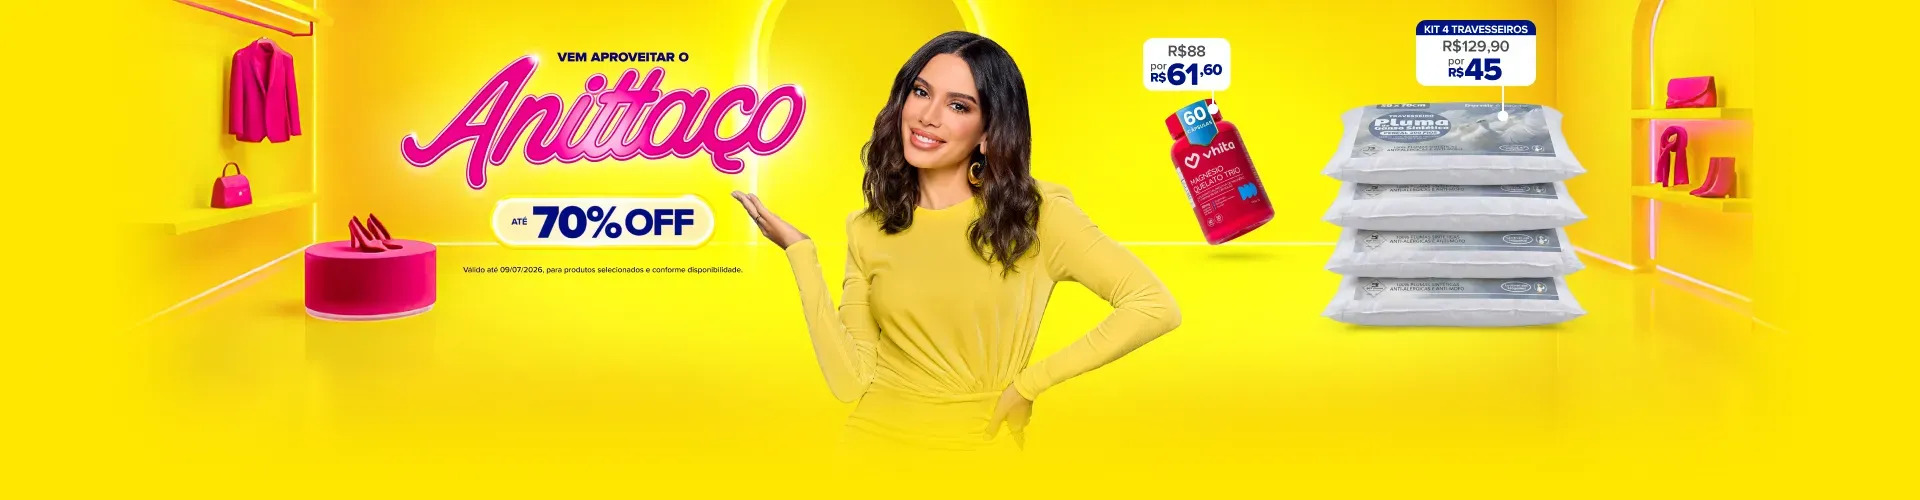
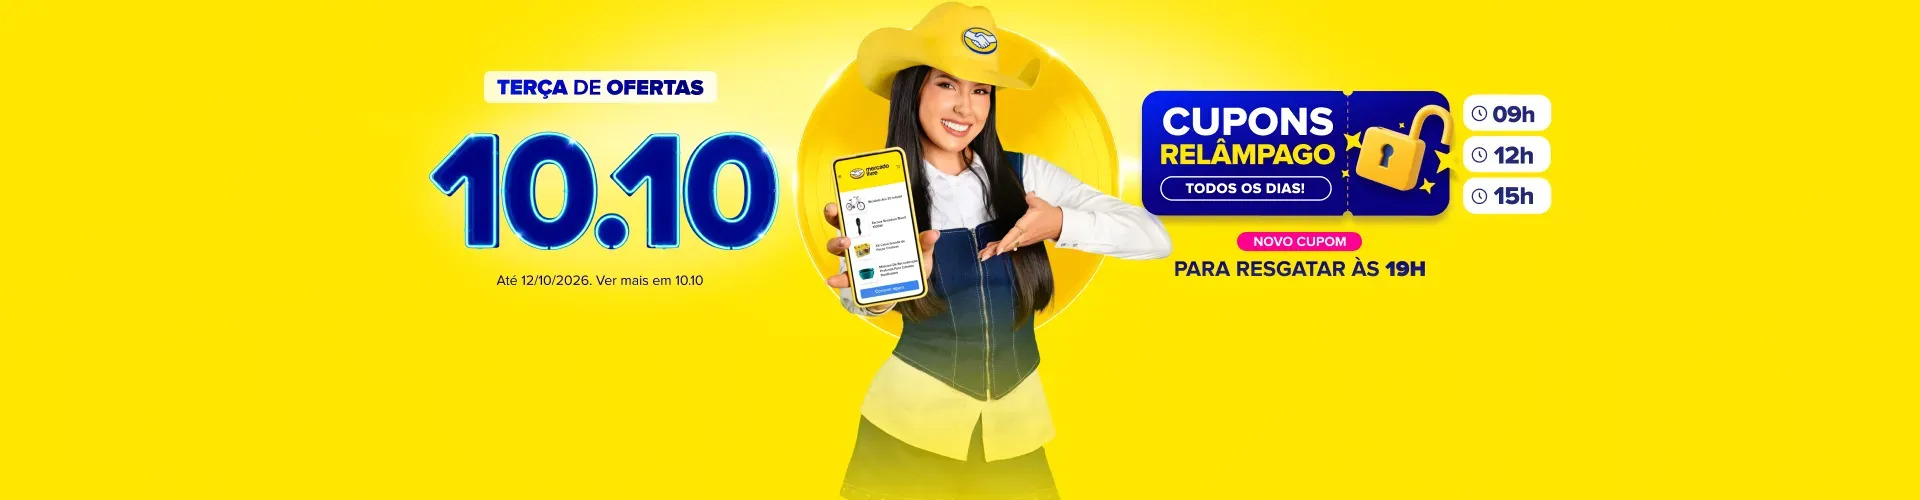
Add files via upload

diff --git a/index.html b/index.html
@@ -556,6 +556,22 @@
         min-height: 176px;
       }
     }
+
+
+    /* ===== Home Tech 2.0 ===== */
+    .hero-actions{display:flex;gap:10px;flex-wrap:wrap;margin-top:18px}.hero-btn{display:inline-flex;align-items:center;justify-content:center;min-height:44px;padding:10px 16px;border-radius:8px;text-decoration:none;font-weight:800;background:#fff;color:#123}.hero-btn.secondary{background:rgba(255,255,255,.16);color:#fff;border:1px solid rgba(255,255,255,.4);backdrop-filter:blur(8px)}
+    .quick-wrap,.featured-wrap,.coupon-wrap{max-width:1200px;margin:18px auto 0;padding:0 18px}.section-head{display:flex;justify-content:space-between;align-items:end;gap:12px;margin-bottom:10px}.section-head h2{font-size:1.25rem}.section-head p{color:var(--muted);font-size:.9rem}
+    .quick-cats{display:flex;gap:8px;overflow-x:auto;scrollbar-width:none;padding-bottom:2px}.quick-cats::-webkit-scrollbar{display:none}.cat-chip{flex:0 0 auto;border:1px solid var(--line);background:var(--surface);color:var(--text);border-radius:999px;padding:10px 14px;font-weight:800;cursor:pointer}.cat-chip.active,.cat-chip:hover{background:var(--brand);border-color:var(--brand);color:#fff}
+    .featured{display:grid;grid-auto-flow:column;grid-auto-columns:minmax(245px,300px);gap:12px;overflow-x:auto;scroll-snap-type:x mandatory;padding:2px 2px 8px}.featured .card{scroll-snap-align:start}
+    .coupon-box{display:flex;align-items:center;justify-content:space-between;gap:16px;padding:18px;border:1px solid var(--line);border-radius:10px;background:linear-gradient(135deg,var(--surface),var(--surface-strong));box-shadow:0 10px 24px rgba(23,32,51,.06)}.coupon-box h2{font-size:1.15rem;margin-bottom:4px}.coupon-box p{color:var(--muted)}
+    .toolbar{max-width:1200px;margin:12px auto 0;padding:0 18px;display:flex;justify-content:space-between;align-items:center;gap:12px}.sort-select{min-height:42px;border:1px solid var(--line);border-radius:8px;background:var(--surface);color:var(--text);padding:0 12px;font-weight:700}
+    .card{position:relative}.badge{position:absolute;top:10px;left:10px;z-index:2;padding:6px 9px;border-radius:999px;background:#00a650;color:#fff;font-size:.75rem;font-weight:900;box-shadow:0 5px 14px rgba(0,0,0,.16)}.fav-btn{position:absolute;top:9px;right:9px;z-index:2;width:36px;height:36px;border:1px solid var(--line);border-radius:50%;background:rgba(255,255,255,.94);cursor:pointer;font-size:1rem}.fav-btn.active{color:#e11d48}
+    .price-box{margin-top:2px}.old-price{color:var(--muted);font-size:.82rem;text-decoration:line-through;min-height:1em}.current-price{font-size:1.35rem;font-weight:900;color:var(--text)}.installments{font-size:.82rem!important;color:#00a650!important;font-weight:800}.card-actions{display:grid;grid-template-columns:1fr 44px;gap:8px;margin-top:auto}.card-actions .btn{margin-top:0}.share-btn{border:1px solid var(--line);border-radius:8px;background:var(--surface-strong);color:var(--text);cursor:pointer;font-size:1rem}
+    .admin-fab{position:fixed;left:18px;bottom:18px;z-index:901;border:0;border-radius:999px;background:#172033;color:#fff;min-height:46px;padding:0 16px;font-weight:900;cursor:pointer;box-shadow:var(--shadow)}body.dark .admin-fab{background:#f4f7fb;color:#172033}
+    .modal-backdrop{position:fixed;inset:0;z-index:2000;background:rgba(5,10,20,.62);display:none;align-items:center;justify-content:center;padding:16px}.modal-backdrop.open{display:flex}.admin-modal{width:min(760px,100%);max-height:92vh;overflow:auto;background:var(--surface);border:1px solid var(--line);border-radius:14px;box-shadow:0 30px 80px rgba(0,0,0,.35)}.modal-head{position:sticky;top:0;background:var(--surface);display:flex;align-items:center;justify-content:space-between;padding:16px;border-bottom:1px solid var(--line);z-index:2}.modal-head button{width:38px;height:38px;border:1px solid var(--line);border-radius:8px;background:var(--bg);color:var(--text);cursor:pointer}.admin-body{padding:16px}.admin-grid{display:grid;grid-template-columns:1fr 1fr;gap:10px}.admin-grid .full{grid-column:1/-1}.admin-grid input,.admin-grid select,.admin-grid textarea{width:100%;min-height:44px;padding:10px 12px;border:1px solid var(--line);border-radius:8px;background:var(--bg);color:var(--text);font:inherit}.admin-grid textarea{min-height:80px;resize:vertical}.admin-actions{display:flex;gap:8px;flex-wrap:wrap;margin-top:12px}.admin-actions button{min-height:42px;border:0;border-radius:8px;padding:0 14px;font-weight:900;cursor:pointer}.save-product{background:var(--brand);color:#fff}.cancel-edit{background:var(--surface-strong);color:var(--text)}.admin-list{margin-top:18px;border-top:1px solid var(--line);padding-top:14px}.admin-item{display:flex;align-items:center;justify-content:space-between;gap:10px;padding:10px 0;border-bottom:1px solid var(--line)}.admin-item span{min-width:0;overflow:hidden;text-overflow:ellipsis;white-space:nowrap}.admin-item-actions{display:flex;gap:6px}.admin-item button{border:1px solid var(--line);background:var(--bg);color:var(--text);border-radius:7px;padding:7px 9px;cursor:pointer}.danger{color:#dc2626!important}
+    .toast{position:fixed;left:50%;bottom:76px;transform:translate(-50%,20px);z-index:3000;background:#172033;color:#fff;padding:10px 14px;border-radius:999px;font-weight:800;opacity:0;pointer-events:none;transition:.25s}.toast.show{opacity:1;transform:translate(-50%,0)}
+    @media(max-width:768px){.quick-wrap,.featured-wrap,.coupon-wrap,.toolbar{padding-left:12px;padding-right:12px}.coupon-box{align-items:flex-start;flex-direction:column}.toolbar{align-items:stretch;flex-direction:column}.sort-select{width:100%}.admin-grid{grid-template-columns:1fr}.admin-grid .full{grid-column:auto}.admin-fab{left:12px;bottom:14px;padding:0 13px}.card-actions{grid-template-columns:1fr 40px}.current-price{font-size:1.12rem}.featured{grid-auto-columns:82vw}}
+
   </style>
 </head>
 <body>
@@ -584,11 +600,22 @@
       <img src="img/banner.jpg" alt="Produtos de tecnologia em oferta" />
       <div class="banner-copy">
         <h1>Ofertas acessíveis</h1>
-        <p>Produtos selecionados, cupons e achadinhos de tecnologia com acesso rápido ao Mercado Livre.</p>
+        <p>Produtos selecionados, cupons e achadinhos de tecnologia com acesso rápido ao Mercado Livre.</p><div class="hero-actions"><a class="hero-btn" href="#produtos">🔥 Ver ofertas</a><a class="hero-btn secondary" href="https://www.mercadolivre.com.br/cupons?source_page=mperfil#nav-header" target="_blank" rel="noopener noreferrer">🎟 Ver cupons</a></div>
       </div>
     </div>
   </section>
 
+  <section class="quick-wrap" aria-label="Categorias rápidas">
+    <div class="section-head"><div><h2>Explore por categoria</h2><p>Encontre ofertas mais rápido</p></div></div>
+    <div class="quick-cats" id="quickCats"></div>
+  </section>
+  <section class="featured-wrap" id="featuredSection">
+    <div class="section-head"><div><h2>🔥 Ofertas em destaque</h2><p>Seleção rápida da Home Tech</p></div></div>
+    <div class="featured" id="featured"></div>
+  </section>
+  <section class="coupon-wrap">
+    <div class="coupon-box"><div><h2>🎟 Cupons Mercado Livre</h2><p>Confira cupons disponíveis antes de finalizar sua compra.</p></div><a class="btn" href="https://www.mercadolivre.com.br/cupons?source_page=mperfil#nav-header" target="_blank" rel="noopener noreferrer">Ver cupons</a></div>
+  </section>
   <div class="filters-wrap">
     <div class="filtros" aria-label="Filtros de produtos">
       <input type="search" id="busca" placeholder="Buscar produto..." autocomplete="off" />
@@ -608,13 +635,16 @@
     </div>
   </div>
 
-  <div class="contador" id="contador">Produtos encontrados: 0</div>
+  <div class="toolbar"><div class="contador" id="contador">Produtos encontrados: 0</div><select id="ordenacao" class="sort-select" aria-label="Ordenar produtos"><option value="padrao">Ordenar: Destaques</option><option value="menor">Menor preço</option><option value="maior">Maior preço</option><option value="desconto">Maior desconto</option><option value="az">Nome A–Z</option></select></div>
 
   <section class="container" id="produtos"></section>
   <div class="paginacao" id="paginacao"></div>
 
   <button id="topBtn">↑</button>
 
+<button class="admin-fab" id="adminBtn" type="button">⚙ Gerenciar ofertas</button>
+<div class="modal-backdrop" id="adminModal" aria-hidden="true"><div class="admin-modal" role="dialog" aria-modal="true" aria-labelledby="adminTitle"><div class="modal-head"><h2 id="adminTitle">Gerenciar ofertas</h2><button id="closeAdmin" aria-label="Fechar">✕</button></div><div class="admin-body"><form id="productForm"><div class="admin-grid"><input id="pNome" class="full" required placeholder="Nome do produto"><select id="pCategoria" required><option value="notebooks">Notebooks</option><option value="smartphones">Smartphones</option><option value="camera">Câmeras</option><option value="tv">TVs</option><option value="perifericos">Periféricos</option><option value="games">Video games</option><option value="moda">Moda e fitness</option><option value="perfume">Perfumes</option><option value="casa">Casa e móveis</option><option value="eletro">Eletrodomésticos</option></select><input id="pPrecoAntigo" inputmode="decimal" placeholder="Preço antigo (ex.: 2499,90)"><input id="pPreco" inputmode="decimal" placeholder="Preço atual (ex.: 1999,90)"><input id="pImagem" class="full" required placeholder="URL da imagem"><input id="pLink" class="full" required placeholder="Link de afiliado"><textarea id="pDescricao" class="full" placeholder="Descrição"></textarea><label class="full"><input id="pDestaque" type="checkbox"> Marcar como destaque</label></div><div class="admin-actions"><button class="save-product" type="submit">💾 Salvar oferta</button><button class="cancel-edit" id="cancelEdit" type="button" hidden>Cancelar edição</button></div></form><div class="admin-list"><h3>Produtos cadastrados</h3><div id="adminProducts"></div></div></div></div></div>
+<div class="toast" id="toast"></div>
 <footer>
     <div class="footer-inner">
       <p>Ofertas Acessíveis - Desenvolvido por Paulo Carvalho © 2026</p>
@@ -953,122 +983,40 @@
 ]
 
 
-    function embaralhar(array) {
-      for (let i = array.length - 1; i > 0; i--) {
-        const j = Math.floor(Math.random() * (i + 1));
-        [array[i], array[j]] = [array[j], array[i]];
-      }
-      return array;
-    }
+    function embaralhar(array) { for (let i=array.length-1;i>0;i--){const j=Math.floor(Math.random()*(i+1));[array[i],array[j]]=[array[j],array[i]]} return array; }
+    const STORAGE_PRODUCTS="homeTechProdutosV2", STORAGE_FAV="homeTechFavoritosV2";
+    const baseProdutos=produtosData.map((p,i)=>({...p,id:`base-${i}`,preco:p.preco||0,precoAntigo:p.precoAntigo||0,destaque:i<6}));
+    let customProdutos=JSON.parse(localStorage.getItem(STORAGE_PRODUCTS)||"[]");
+    let favoritos=new Set(JSON.parse(localStorage.getItem(STORAGE_FAV)||"[]"));
+    let todosProdutos=[...customProdutos,...baseProdutos], produtosFiltrados=[], paginaAtual=1; const itensPorPagina=6;
+    const $=id=>document.getElementById(id), produtosContainer=$("produtos"),contador=$("contador"),paginacao=$("paginacao"),buscaInput=$("busca"),filtroCat=$("categoria"),ordenacao=$("ordenacao");
+    const brl=v=>Number(v)>0?Number(v).toLocaleString("pt-BR",{style:"currency",currency:"BRL"}):"";
+    const norm=t=>(t||"").normalize("NFD").replace(/[\u0300-\u036f]/g,"").toLowerCase();
+    function desconto(p){return p.precoAntigo>p.preco&&p.preco>0?Math.round((1-p.preco/p.precoAntigo)*100):0}
+    function toast(msg){const t=$("toast");t.textContent=msg;t.classList.add("show");clearTimeout(toast.timer);toast.timer=setTimeout(()=>t.classList.remove("show"),1800)}
+    function cardHTML(p){const d=desconto(p), fav=favoritos.has(p.id);return `${d?`<span class="badge">-${d}% OFF</span>`:""}<button class="fav-btn ${fav?"active":""}" data-fav="${p.id}" aria-label="Favoritar">${fav?"♥":"♡"}</button><img src="${p.imagem}" alt="${p.nome}" loading="lazy" decoding="async"><div class="card-content"><h3>${p.nome}</h3><p>${p.descricao||"Oferta selecionada pela Home Tech."}</p>${p.preco?`<div class="price-box"><div class="old-price">${p.precoAntigo?`De ${brl(p.precoAntigo)}`:""}</div><div class="current-price">${brl(p.preco)}</div><p class="installments">ou consulte parcelamento no Mercado Livre</p></div>`:""}<div class="card-actions"><a href="${p.link}" target="_blank" rel="noopener noreferrer" class="btn">Conferir oferta</a><button class="share-btn" data-share="${p.id}" aria-label="Compartilhar oferta">↗</button></div></div>`}
+    function criarCard(p){const card=document.createElement("article");card.className="card";card.innerHTML=cardHTML(p);return card}
+    function renderizarProdutos(){produtosContainer.innerHTML="";const inicio=(paginaAtual-1)*itensPorPagina,lista=produtosFiltrados.slice(inicio,inicio+itensPorPagina);if(!lista.length){produtosContainer.innerHTML='<div class="empty-state">Nenhum produto encontrado. Tente outro termo ou categoria.</div>';contador.textContent="Produtos encontrados: 0";paginacao.innerHTML="";return}lista.forEach(p=>produtosContainer.appendChild(criarCard(p)));contador.textContent=`Produtos encontrados: ${produtosFiltrados.length}`;renderizarPaginacao()}
+    function renderizarPaginacao(){paginacao.innerHTML="";const total=Math.ceil(produtosFiltrados.length/itensPorPagina);for(let i=1;i<=total;i++){const b=document.createElement("button");b.textContent=i;b.type="button";b.setAttribute("aria-label",`Ir para página ${i}`);if(i===paginaAtual){b.classList.add("active");b.setAttribute("aria-current","page")}b.onclick=()=>{paginaAtual=i;renderizarProdutos();document.getElementById("produtos").scrollIntoView({behavior:"smooth",block:"start"})};paginacao.appendChild(b)}}
+    function aplicarFiltros(){const termo=norm(buscaInput.value),cat=filtroCat.value;produtosFiltrados=todosProdutos.filter(p=>(norm(p.nome).includes(termo)||norm(p.descricao).includes(termo)||norm(p.categoria).includes(termo))&&(cat==="todas"||p.categoria===cat));const ord=ordenacao.value;if(ord==="menor")produtosFiltrados.sort((a,b)=>(a.preco||Infinity)-(b.preco||Infinity));if(ord==="maior")produtosFiltrados.sort((a,b)=>(b.preco||0)-(a.preco||0));if(ord==="desconto")produtosFiltrados.sort((a,b)=>desconto(b)-desconto(a));if(ord==="az")produtosFiltrados.sort((a,b)=>a.nome.localeCompare(b.nome,"pt-BR"));paginaAtual=1;renderizarProdutos()}
+    const cats=[['todas','✨ Todas'],['smartphones','📱 Celulares'],['notebooks','💻 Notebooks'],['games','🎮 Games'],['tv','📺 TVs'],['perifericos','⌨ Periféricos'],['casa','🏠 Casa'],['eletro','⚡ Eletro'],['moda','👟 Moda'],['perfume','✨ Perfumes']];
+    function renderQuickCats(){const q=$("quickCats");q.innerHTML="";cats.forEach(([v,n])=>{const b=document.createElement("button");b.className="cat-chip"+(filtroCat.value===v?" active":"");b.textContent=n;b.onclick=()=>{filtroCat.value=v;renderQuickCats();aplicarFiltros();document.querySelector('.filters-wrap').scrollIntoView({behavior:'smooth'})};q.appendChild(b)})}
+    function renderFeatured(){const box=$("featured");box.innerHTML="";let list=todosProdutos.filter(p=>p.destaque).slice(0,8);if(!list.length)list=todosProdutos.slice(0,6);list.forEach(p=>box.appendChild(criarCard(p)))}
+    function toggleFav(id){favoritos.has(id)?favoritos.delete(id):favoritos.add(id);localStorage.setItem(STORAGE_FAV,JSON.stringify([...favoritos]));renderizarProdutos();renderFeatured()}
+    async function shareProduct(id){const p=todosProdutos.find(x=>x.id===id);if(!p)return;const txt=`🔥 ${p.nome}${p.preco?`\n💰 ${brl(p.preco)}`:""}\n👉 ${p.link}`;try{if(navigator.share)await navigator.share({title:p.nome,text:txt,url:p.link});else{await navigator.clipboard.writeText(txt);toast("Oferta copiada para compartilhar!")}}catch(e){}}
+    document.addEventListener("click",e=>{const f=e.target.closest("[data-fav]");if(f)toggleFav(f.dataset.fav);const sh=e.target.closest("[data-share]");if(sh)shareProduct(sh.dataset.share)});
+    buscaInput.addEventListener("input",aplicarFiltros);filtroCat.addEventListener("change",()=>{renderQuickCats();aplicarFiltros()});ordenacao.addEventListener("change",aplicarFiltros);
+    const toggle=$("themeToggle"),temaSalvo=localStorage.getItem("tema");function aplicarTema(t){const esc=t==="escuro";document.body.classList.toggle("dark",esc);toggle.textContent=esc?"☀":"☾";toggle.setAttribute("aria-label",esc?"Ativar modo claro":"Ativar modo escuro");toggle.title=esc?"Ativar modo claro":"Ativar modo escuro"}aplicarTema(temaSalvo||"claro");toggle.onclick=()=>{const n=document.body.classList.contains("dark")?"claro":"escuro";localStorage.setItem("tema",n);aplicarTema(n)};
+    const btnTop=$("topBtn");window.addEventListener("scroll",()=>btnTop.style.display=(document.documentElement.scrollTop>200)?"block":"none");btnTop.onclick=()=>window.scrollTo({top:0,behavior:"smooth"});
+    // Admin local
+    const modal=$("adminModal"),form=$("productForm");let editId=null;function openAdmin(){modal.classList.add("open");modal.setAttribute("aria-hidden","false");renderAdminList()}function closeAdmin(){modal.classList.remove("open");modal.setAttribute("aria-hidden","true")}$("adminBtn").onclick=openAdmin;$("closeAdmin").onclick=closeAdmin;modal.addEventListener("click",e=>{if(e.target===modal)closeAdmin()});
+    function num(v){return Number(String(v).replace(/\./g,"").replace(",","."))||0}function saveCustom(){localStorage.setItem(STORAGE_PRODUCTS,JSON.stringify(customProdutos));todosProdutos=[...customProdutos,...baseProdutos];aplicarFiltros();renderFeatured();renderAdminList()}
+    form.onsubmit=e=>{e.preventDefault();const obj={id:editId||`custom-${Date.now()}`,nome:$("pNome").value.trim(),categoria:$("pCategoria").value,precoAntigo:num($("pPrecoAntigo").value),preco:num($("pPreco").value),imagem:$("pImagem").value.trim(),link:$("pLink").value.trim(),descricao:$("pDescricao").value.trim(),destaque:$("pDestaque").checked};if(editId){customProdutos=customProdutos.map(p=>p.id===editId?obj:p);toast("Oferta atualizada!")}else{customProdutos.unshift(obj);toast("Oferta cadastrada!")}resetForm();saveCustom()};
+    function resetForm(){form.reset();editId=null;$("cancelEdit").hidden=true}$("cancelEdit").onclick=resetForm;
+    function renderAdminList(){const box=$("adminProducts");box.innerHTML=customProdutos.length?"":"<p style='color:var(--muted);margin-top:10px'>Nenhuma oferta adicionada pelo painel ainda.</p>";customProdutos.forEach(p=>{const d=document.createElement("div");d.className="admin-item";d.innerHTML=`<span><strong>${p.nome}</strong></span><div class="admin-item-actions"><button data-edit="${p.id}">Editar</button><button class="danger" data-del="${p.id}">Excluir</button></div>`;box.appendChild(d)});box.querySelectorAll("[data-edit]").forEach(b=>b.onclick=()=>editProduct(b.dataset.edit));box.querySelectorAll("[data-del]").forEach(b=>b.onclick=()=>{if(confirm("Excluir esta oferta?")){customProdutos=customProdutos.filter(p=>p.id!==b.dataset.del);saveCustom();toast("Oferta excluída")}})}
+    function editProduct(id){const p=customProdutos.find(x=>x.id===id);if(!p)return;editId=id;$("pNome").value=p.nome;$("pCategoria").value=p.categoria;$("pPrecoAntigo").value=p.precoAntigo||"";$("pPreco").value=p.preco||"";$("pImagem").value=p.imagem;$("pLink").value=p.link;$("pDescricao").value=p.descricao||"";$("pDestaque").checked=!!p.destaque;$("cancelEdit").hidden=false;form.scrollIntoView({behavior:"smooth"})}
+    embaralhar(baseProdutos);todosProdutos=[...customProdutos,...baseProdutos];produtosFiltrados=[...todosProdutos];renderQuickCats();renderFeatured();aplicarFiltros();
 
-    const produtosContainer = document.getElementById("produtos");
-    const contador = document.getElementById("contador");
-    const paginacao = document.getElementById("paginacao");
-    const buscaInput = document.getElementById("busca");
-    const filtroCat = document.getElementById("categoria");
-
-    let produtosFiltrados = [];
-    let paginaAtual = 1;
-    const itensPorPagina = 6;
-
-    function renderizarProdutos() {
-      produtosContainer.innerHTML = "";
-      const inicio = (paginaAtual - 1) * itensPorPagina;
-      const fim = inicio + itensPorPagina;
-      const produtosPagina = produtosFiltrados.slice(inicio, fim);
-
-      if (produtosPagina.length === 0) {
-        produtosContainer.innerHTML = `<div class="empty-state">Nenhum produto encontrado. Tente outro termo ou categoria.</div>`;
-        contador.textContent = "Produtos encontrados: 0";
-        paginacao.innerHTML = "";
-        return;
-      }
-
-      produtosPagina.forEach(p => {
-        const card = document.createElement("div");
-        card.className = "card";
-        card.innerHTML = `
-          <img src="${p.imagem}" alt="${p.nome}" loading="lazy" decoding="async">
-          <div class="card-content">
-            <h3>${p.nome}</h3>
-            <p>${p.descricao}</p>
-            <a href="${p.link}" target="_blank" rel="noopener noreferrer" class="btn">Conferir oferta</a>
-          </div>
-        `;
-        produtosContainer.appendChild(card);
-      });
-
-      contador.textContent = `Produtos encontrados: ${produtosFiltrados.length}`;
-      renderizarPaginacao();
-    }
-
-    function renderizarPaginacao() {
-      paginacao.innerHTML = "";
-      const totalPaginas = Math.ceil(produtosFiltrados.length / itensPorPagina);
-      for (let i = 1; i <= totalPaginas; i++) {
-        const btn = document.createElement("button");
-        btn.textContent = i;
-        btn.type = "button";
-        btn.setAttribute("aria-label", `Ir para página ${i}`);
-        if (i === paginaAtual) {
-          btn.classList.add("active");
-          btn.setAttribute("aria-current", "page");
-        }
-        btn.onclick = () => {
-          paginaAtual = i;
-          renderizarProdutos();
-        };
-        paginacao.appendChild(btn);
-      }
-    }
-
-    function filtrarProdutos() {
-      const termo = buscaInput.value.toLowerCase();
-      const categoria = filtroCat.value;
-      produtosFiltrados = produtosData.filter(p => {
-        const matchBusca = p.nome.toLowerCase().includes(termo);
-        const matchCat = categoria === "todas" || p.categoria === categoria;
-        return matchBusca && matchCat;
-      });
-      paginaAtual = 1;
-      renderizarProdutos();
-    }
-
-    window.addEventListener("load", () => {
-      embaralhar(produtosData);
-      produtosFiltrados = produtosData;
-      renderizarProdutos();
-    });
-
-    buscaInput.addEventListener("input", filtrarProdutos);
-    filtroCat.addEventListener("change", filtrarProdutos);
-
-    // Tema escuro
-    const toggle = document.getElementById("themeToggle");
-    const temaSalvo = localStorage.getItem("tema");
-
-    function aplicarTema(tema) {
-      const escuro = tema === "escuro";
-      document.body.classList.toggle("dark", escuro);
-      toggle.textContent = escuro ? "☀" : "☾";
-      toggle.setAttribute("aria-label", escuro ? "Ativar modo claro" : "Ativar modo escuro");
-      toggle.title = escuro ? "Ativar modo claro" : "Ativar modo escuro";
-    }
-
-    aplicarTema(temaSalvo || "claro");
-
-    toggle.onclick = () => {
-      const novoTema = document.body.classList.contains("dark") ? "claro" : "escuro";
-      localStorage.setItem("tema", novoTema);
-      aplicarTema(novoTema);
-    };
-
-    // Botão voltar ao topo
-    const btnTop = document.getElementById("topBtn");
-    window.onscroll = function() {
-      btnTop.style.display = (document.body.scrollTop > 200 || document.documentElement.scrollTop > 200) ? "block" : "none";
-    };
-    btnTop.onclick = () => window.scrollTo({ top: 0, behavior: 'smooth' });
   </script>
 </body>
 </html>
